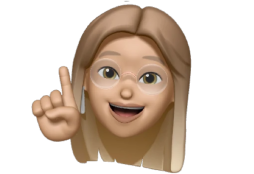
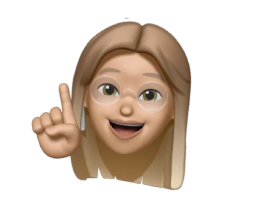
add styles adaptive

diff --git a/src/css/layout/about-us.css b/src/css/layout/about-us.css
@@ -2,16 +2,11 @@
   padding-top: 80px;
 }
 
-.container-about-us {
-  max-width: 375px;
-  padding: 0 20px;
-  margin-left: auto;
-  margin-right: auto;
-}
 
 .about-title {
-  max-width: 335px;
   margin-bottom: 16px;
+  margin-left: auto;
+  margin-right: auto;
   text-align: center;
   font-family: var(--primary-font);
   font-size: 32px;
@@ -30,7 +25,7 @@
   position: absolute;
   display: block;
   z-index: -1;
-  top: 28px;
+  top: 65%;
   right: 0;
   width: 100%;
   height: 12px;
@@ -41,6 +36,8 @@
 .about-text {
   max-width: 334px;
   color: var(--transparent-black);
+  margin-left: auto;
+  margin-right: auto;
   text-align: center;
   font-family: var(--primary-font);
   margin-bottom: 40px;
@@ -52,7 +49,6 @@
 
 .about-list {
   counter-reset: item;
-  list-style-type: none;
   padding-left: 0;
   margin-bottom: 20px;
 }
@@ -100,6 +96,81 @@
 }
 
 .about-img {
+  padding: 51px 0;
   margin: 0 auto;
-  padding: 51px 41px;
+}
+
+@media screen and (min-width: 768px) {
+
+  .about-title {
+    font-size: 40px;
+    line-height: 1.2;
+  }
+
+  .about-title-underline::after {
+    height: 16px;
+
+  }
+
+  .about-text {
+    max-width: 658px;
+    margin-bottom: 64px;
+    font-size: 18px;
+    line-height: 1.67;
+  }
+
+  .about-list {
+    counter-reset: item;
+    margin-bottom: 32px;
+    display: flex;
+    align-items: baseline;
+    justify-content: center;
+    gap: 32px;
+    flex-wrap: wrap;
+  }
+
+  .about-list-item {
+    max-width: 336px;
+  }
+
+  .about-list-item:not(:last-child) {
+    margin-bottom: 0;
+  }
+
+  .about-item-text {
+    font-size: 20px;
+    line-height: 1.2;
+    letter-spacing: -0.04em;
+  }
+
+
+  .about-img {
+    padding: 16px 0;
+    margin: 0 auto;
+  }
+
+}
+
+@media screen and (min-width: 1280px) {
+  .wrap-about-list {
+    display: flex;
+    column-gap: 32px;
+    align-items: inherit;
+    justify-content: center;
+  }
+
+  .about-list {
+    max-width: 682px;
+    justify-content: left;
+    margin-top: 0;
+    margin-bottom: 0;
+  }
+
+  .about-list-item {
+    max-width: 325px;
+  }
+
+  .about-img {
+    padding: 0 28px;
+  }
 }

diff --git a/src/partials/about-us.html b/src/partials/about-us.html
@@ -1,5 +1,5 @@
 <section class="about-section">
-  <div class="container-about-us">
+  <div class="container">
     <h1 class="about-title">
       About <span class="about-title-underline">Us</span>
     </h1>
@@ -23,12 +23,7 @@
         </li>
       </ol>
       <div class="wrap-about-img">
-        <img
-          class="about-img"
-          srcset="./img/other/memoji@2x.png 2x"
-          src="./img/other/memoji.png"
-          alt="teacher"
-        />
+        <img class="about-img" srcset="./img/other/memoji@2x.png 2x" src="./img/other/memoji.png" alt="teacher" />
       </div>
     </div>
   </div>
